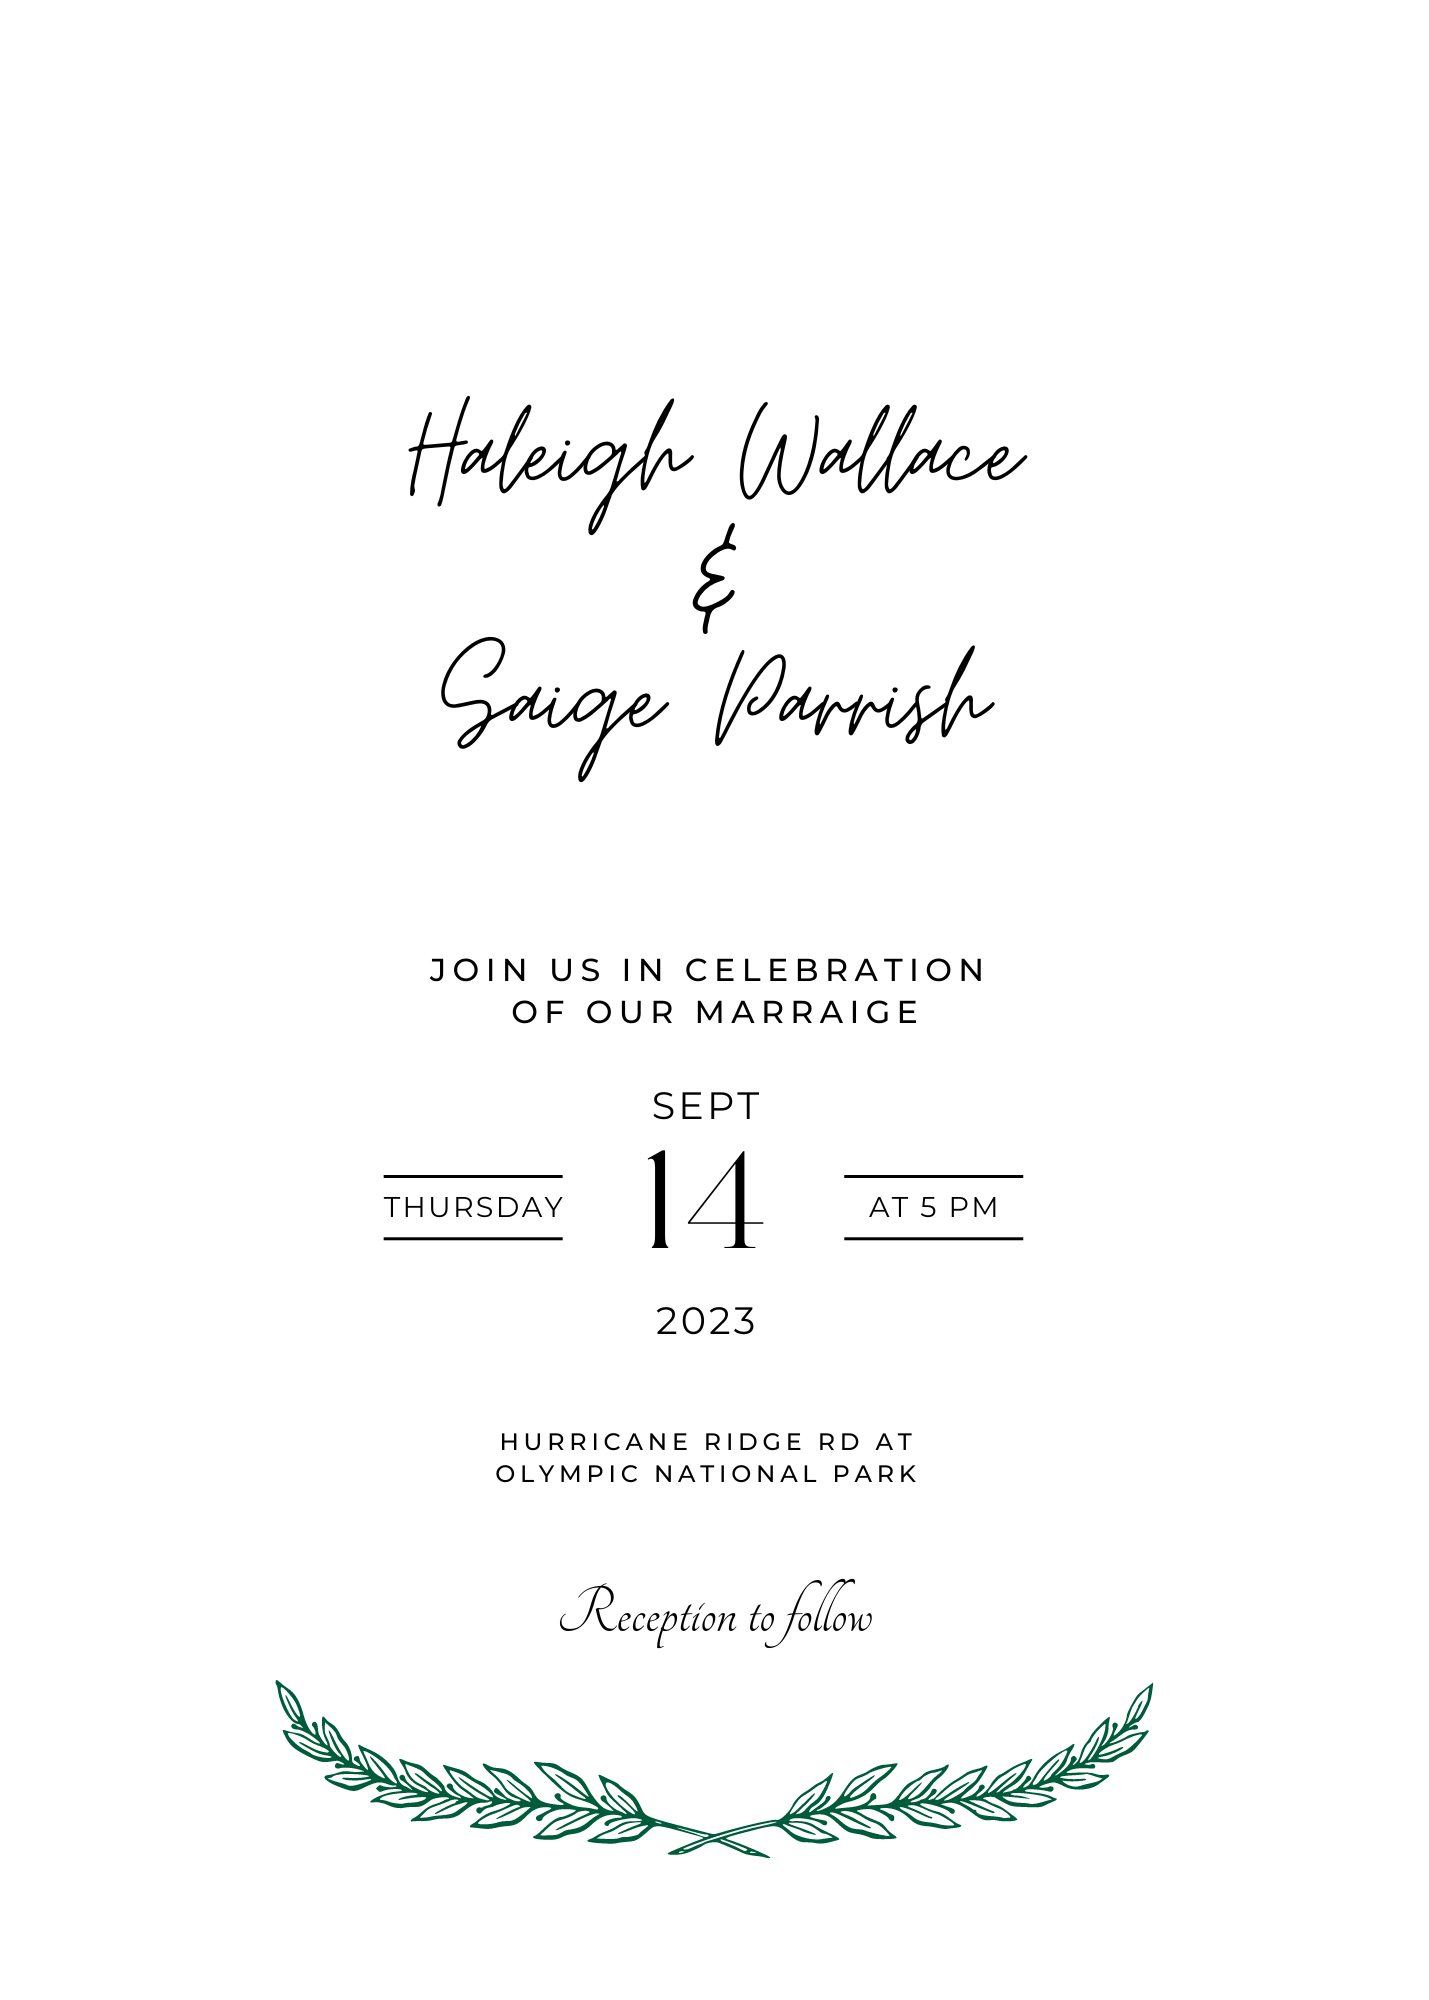
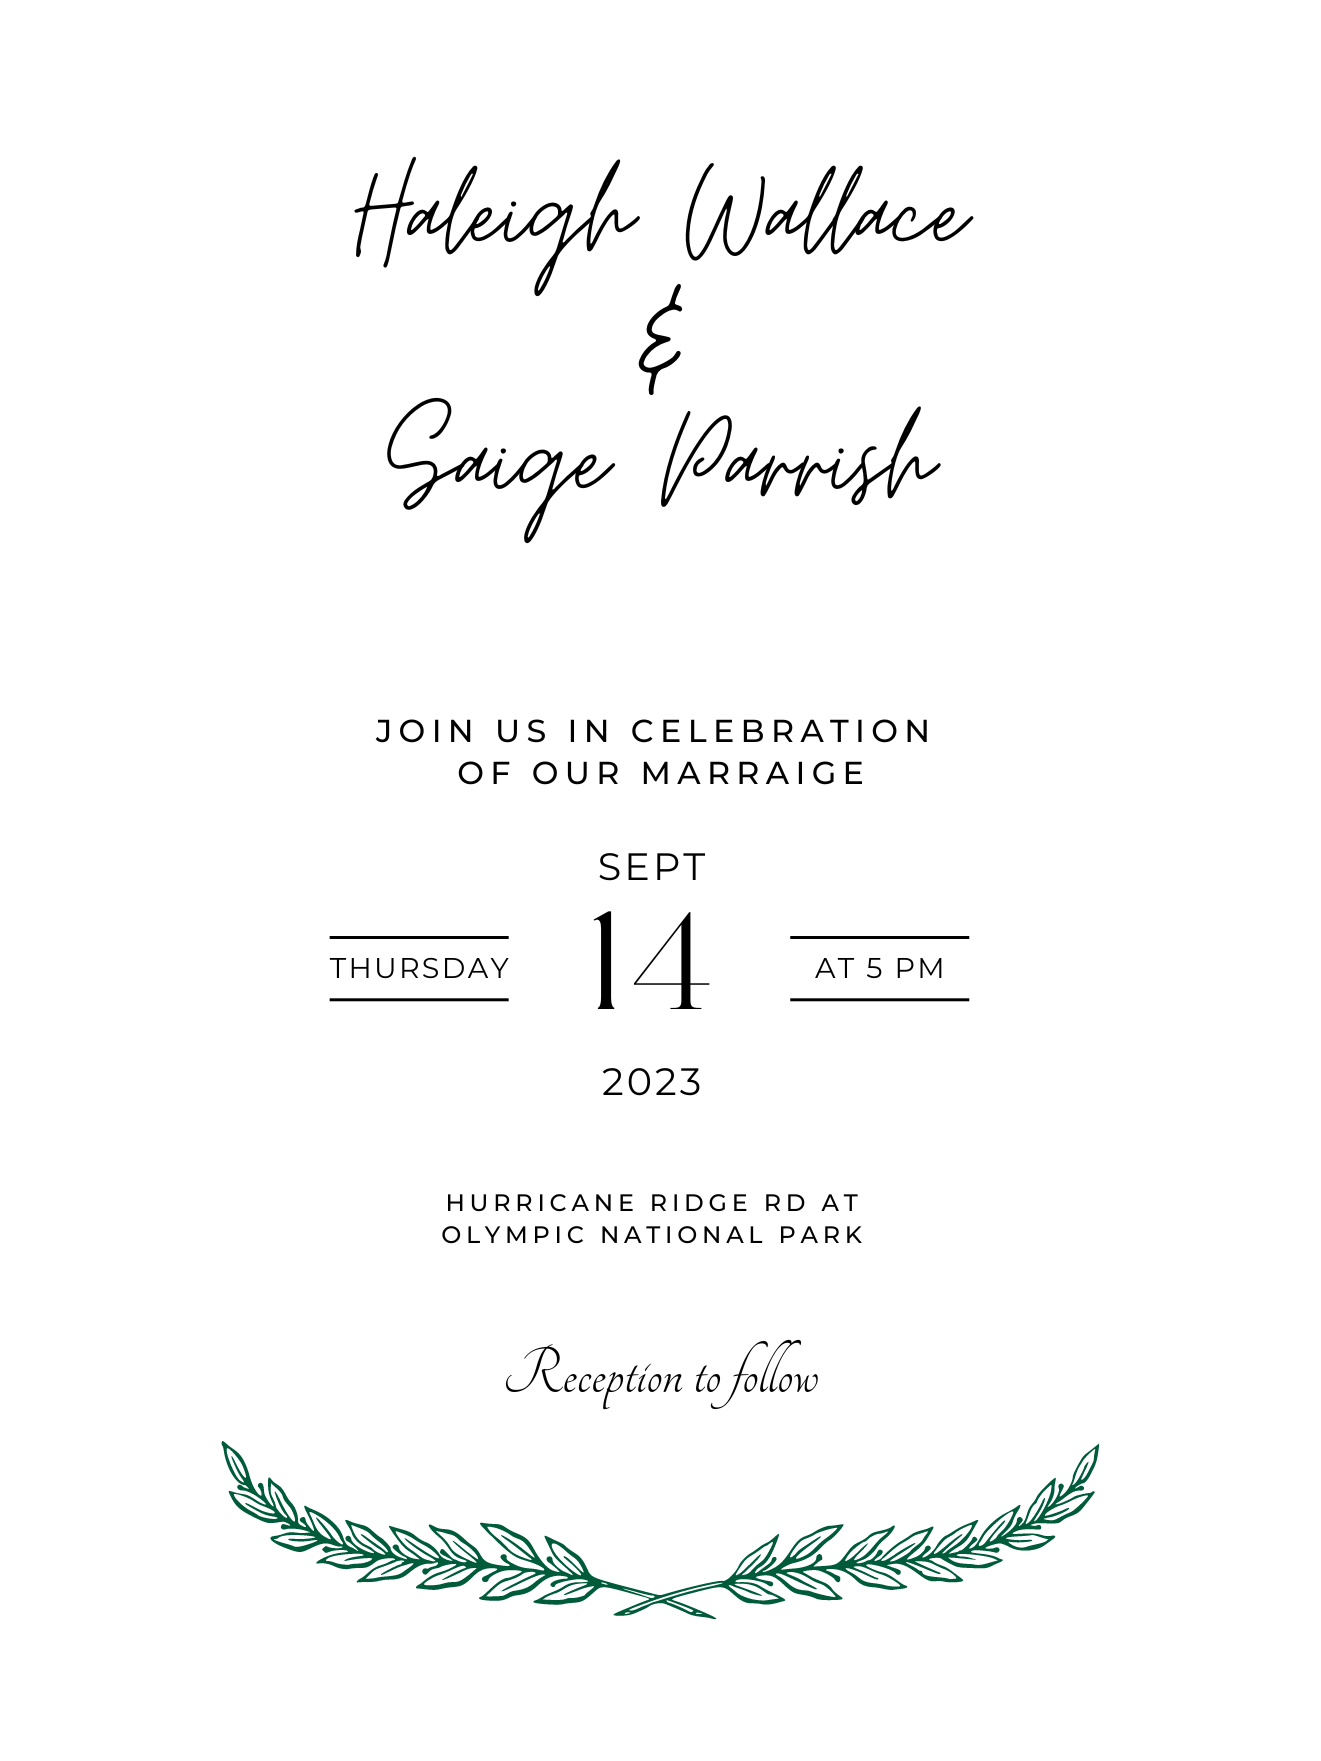
Change fonts

diff --git a/style.css b/style.css
@@ -12,6 +12,7 @@ body {
 .heading {
     text-align: center;
     font-size: 20px;
+    font-family: 'Amatic SC', cursive;
 }
 
 .links {
@@ -20,6 +21,7 @@ body {
     text-align: center;
     font-size: 17px;
     align-items: center;
+    font-family: 'Amatic SC', cursive;
 }
 .links a:link {
     text-decoration: none;
@@ -39,7 +41,7 @@ body {
     display: flex;
     flex-direction: column;
     align-items: center;
-    padding-bottom: 50px;
+    padding-bottom: 30px;
 }
 
 .middle-stay {
@@ -56,6 +58,16 @@ body {
     font-size: 20px;
 }
 
+.middle-stay h2 {
+    font-family: 'Sacramento', cursive;
+    font-weight: 400;
+    width: 400px;
+}
+
+.middle-stay p {
+    font-family: 'Amatic SC', cursive;
+    font-weight: bold;
+}
 .invite {
     width: 30%;
     min-width: 500px;
@@ -68,6 +80,7 @@ body {
     justify-content: center;
     padding-bottom: 50px;
     padding-top: 50px;
+    font-weight: bold;
 }
 
 .footer-stay {
@@ -78,6 +91,8 @@ body {
     padding-bottom: 50px;
     padding-top: 50px;
     align-items: center;
+    font-family: 'Amatic SC', cursive;
+    font-weight: bold;
 }
 
 
@@ -87,6 +102,7 @@ body {
     color: #F7F7F7;
     font-size: 30px;
     max-width: 800px;
+    font-family: 'Amatic SC', cursive;
 }
 
 .msg-stay {
@@ -105,6 +121,7 @@ body {
     text-align: center;
     color: rgba(240, 240, 240, 0.842);
     text-decoration: none;
+    font-family: 'Amatic SC', cursive;
     
 }
 
@@ -123,20 +140,26 @@ body {
     flex-direction: column;
     margin: auto;
     padding: 50px 20px;
+    font-family: 'Amatic SC', cursive;
 }
 
 .hotel-head {
     text-align: center;
+    font-weight: bold;
+}
+
+.hotel-body {
+    width: 90%;
 }
 
 @media screen and (max-width: 500px) {
     .msg {
-        font-size: 20px;
+        font-size: 22px;
         max-width: 600px;
     }
 
     .msg-stay {
-        font-size: 17px;
+        font-size: 19px;
         max-width: 600px;
         width: 300px;
     }
@@ -146,7 +169,7 @@ body {
     }
 
     .middle-stay {
-        font-size: 15px;
+        font-size: 18px;
         width: 300px;
     }
     

diff --git a/stay.html b/stay.html
@@ -4,6 +4,9 @@
     <meta charset="UTF-8">
     <meta http-equiv="X-UA-Compatible" content="IE=edge">
     <meta name="viewport" content="width=device-width, initial-scale=1.0">
+    <link rel="preconnect" href="https://fonts.googleapis.com">
+    <link rel="preconnect" href="https://fonts.gstatic.com" crossorigin>
+    <link href="https://fonts.googleapis.com/css2?family=Amatic+SC:wght@400;700&family=Nanum+Myeongjo:wght@400;700;800&family=Sacramento&display=swap" rel="stylesheet">
     <link rel="stylesheet" href="style.css">
     <title>Flight and Stay</title>
 </head>

diff --git a/index.html b/index.html
@@ -4,6 +4,9 @@
     <meta charset="UTF-8">
     <meta http-equiv="X-UA-Compatible" content="IE=edge">
     <meta name="viewport" content="width=device-width, initial-scale=1.0">
+    <link rel="preconnect" href="https://fonts.googleapis.com">
+    <link rel="preconnect" href="https://fonts.gstatic.com" crossorigin>
+    <link href="https://fonts.googleapis.com/css2?family=Amatic+SC:wght@400;700&family=Nanum+Myeongjo:wght@400;700;800&family=Sacramento&display=swap" rel="stylesheet">
     <link rel="stylesheet" href="style.css">
     <title>H&S Wedding</title>
 </head>
